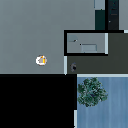
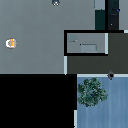
commit

diff --git a/src/pub_feat_full_ep.py b/src/pub_feat_full_ep.py
@@ -341,7 +341,7 @@ class FeatureExpect():
         quat = tf.transformations.euler_from_quaternion(self.robot_angle)
         print("The quaternion afetr tranform is ", quat)
         hack = -quat[2]/10
-        for xy in [self.robot_pose_2d]:
+        for xy in self.robot_past_traj:
             pose = PoseStamped()
             pose.header.stamp = pub_stamp
             pose.header.frame_id = "small_grid_frame"
@@ -404,26 +404,26 @@ class FeatureExpect():
             robot_pos_grid = self.map_to_grid(robot_pos_map)
             self.robot_pose_2d = self.grid_to_pix(robot_pos_grid)
             self.start_point = True
-            # if (self.robot_pose_2d) is not None:
-            #     # self.overlayed_grid_img[self.robot_pose_2d[1], self.robot_pose_2d[0]] = [255,0,0]
-            #     self.robot_past_traj.append(self.robot_pose_2d)
-            # else:
-            #     print("robot not in frame anymore", self.robot_pose_2d)
-            #     pass
+            if (self.robot_pose_2d) is not None:
+                # self.overlayed_grid_img[self.robot_pose_2d[1], self.robot_pose_2d[0]] = [255,0,0]
+                self.robot_past_traj.append(self.robot_pose_2d)
+            else:
+                print("robot not in frame anymore", self.robot_pose_2d)
+                pass
         else:
 
             robot_pos_map = [msg.pose.position.x, msg.pose.position.y]
             robot_pos_grid = self.map_to_grid(robot_pos_map)
             self.robot_pose_2d = self.grid_to_pix(robot_pos_grid)
             
-            # if (self.robot_pose_2d) is not None:
-            #     # self.overlayed_grid_img[self.robot_pose_2d[1], self.robot_pose_2d[0]] = [255,0,0]
-            #     if not self.robot_pose_2d == self.robot_past_traj[-1]:
-            #         self.robot_past_traj.append(self.robot_pose_2d)
-            #         self.last_pose_time_stamp = rospy.Time.now()
-            # else:
-            #     print("robot not in frame anymore")
-            #     pass
+            if (self.robot_pose_2d) is not None:
+                # self.overlayed_grid_img[self.robot_pose_2d[1], self.robot_pose_2d[0]] = [255,0,0]
+                if not self.robot_pose_2d == self.robot_past_traj[-1]:
+                    self.robot_past_traj.append(self.robot_pose_2d)
+                    self.last_pose_time_stamp = rospy.Time.now()
+            else:
+                print("robot not in frame anymore")
+                pass
         # mutex.release()
     
 
